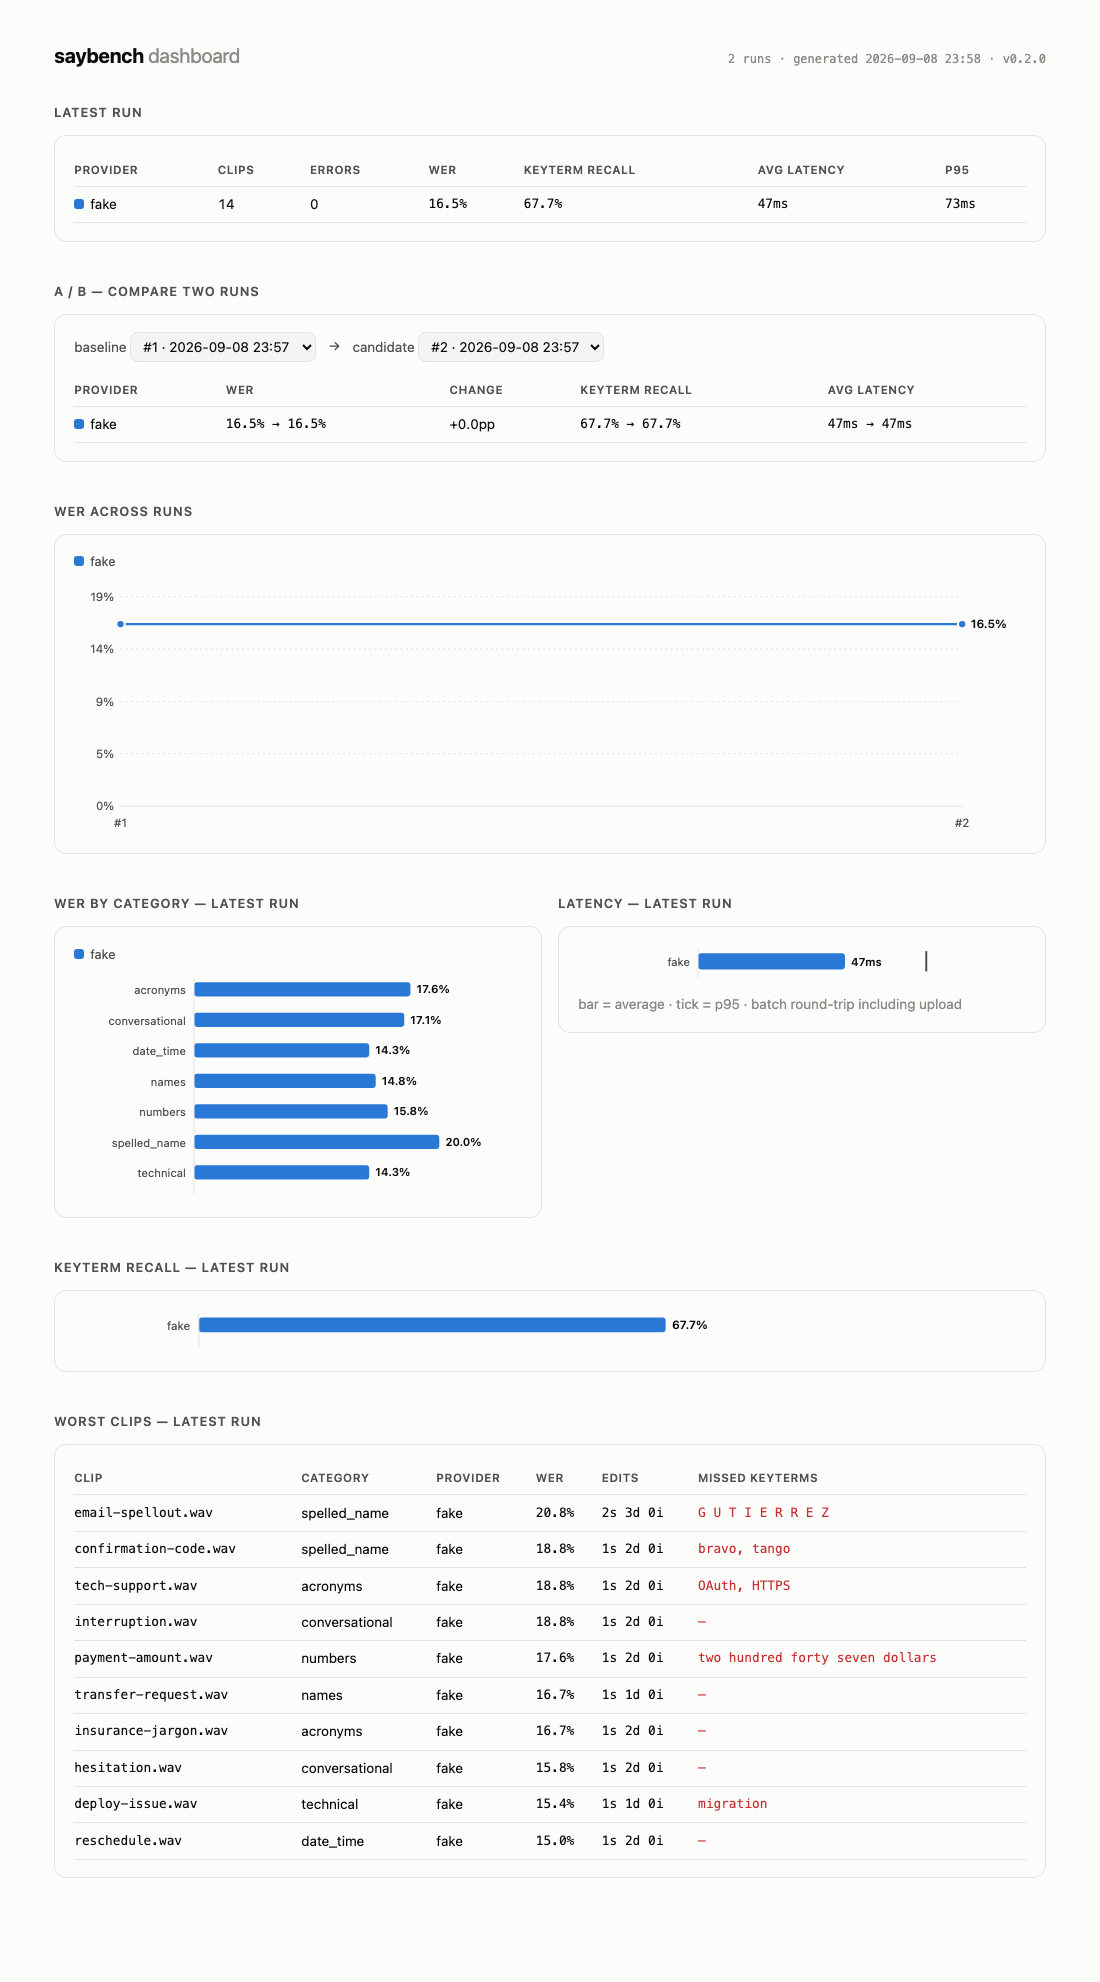
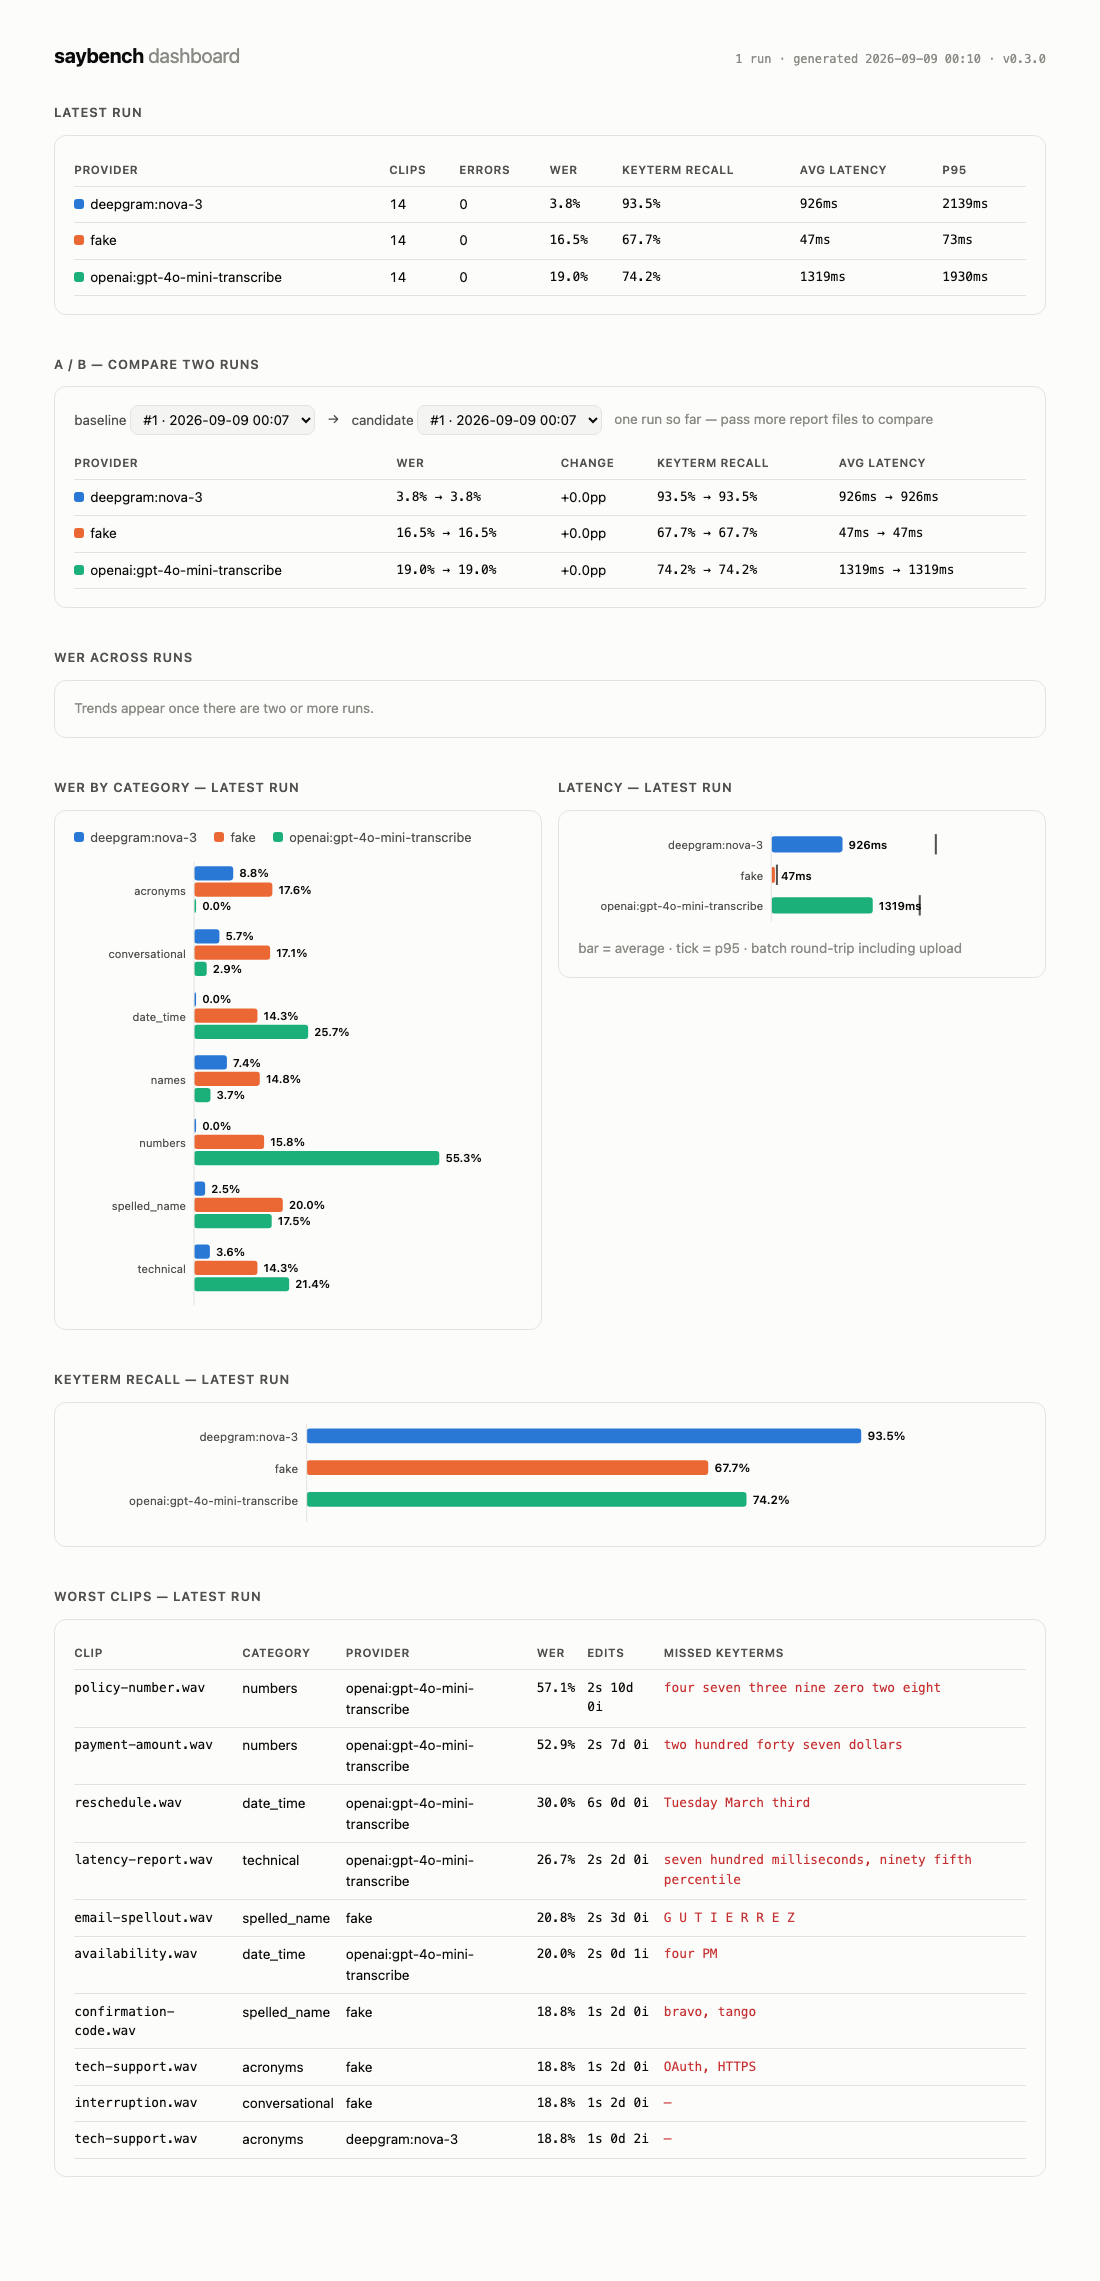
feat: v0.3.0 — first real vendor results, show command, dashboard polish
README now carries a real run of the golden set against live Deepgram
and OpenAI APIs, with the honest reading: per-category ranking inverts
the headline WER, digit-vs-spelled formatting inflates literal WER both
ways (the roadmap's normalization item, demonstrated), and keyterm
recall catches "Cuba Needs" standing in for Kubernetes.

saybench show re-renders any saved report as the standard tables (or
-format json), so results outlive the terminal scrollback.

Dashboard: wider label gutters so long provider names don't truncate;
docs screenshot regenerated from the real three-provider run.

diff --git a/internal/dashboard/template.html b/internal/dashboard/template.html
@@ -258,9 +258,9 @@ function bindTips(root) {
 }
 
 // ---- grouped horizontal bars: WER by category ----
-function hbars(el, rows, valueOf, fmt, tipOf, maxHint, width) {
+function hbars(el, rows, valueOf, fmt, tipOf, maxHint, width, labelW) {
   // rows: [{label, series:[{provider, value}]}]
-  const W = width || 440, L = 118, R = 52, barH = 14, gap = 2, groupGap = 14;
+  const W = width || 440, L = labelW || 118, R = 52, barH = 14, gap = 2, groupGap = 14;
   const max = Math.max(maxHint || 0, ...rows.flatMap(r => r.series.map(s => valueOf(s) || 0))) * 1.12 || 1;
   let yPos = 8, g = "";
   rows.forEach(r => {
@@ -297,7 +297,7 @@ function hbars(el, rows, valueOf, fmt, tipOf, maxHint, width) {
 {
   const rows = (latest.summaries || []).map(s => ({ label: s.provider, series: [{ provider: s.provider, avg: s.avg_latency_ms, p95: s.p95_latency_ms }] }));
   const el = document.getElementById("lat");
-  const W = 440, L = 118, R = 64, barH = 16;
+  const W = 440, L = 190, R = 64, barH = 16;
   const max = Math.max(...rows.map(r => r.series[0].p95), 1) * 1.15;
   let yPos = 8, g = "";
   rows.forEach(r => {
@@ -325,7 +325,7 @@ function hbars(el, rows, valueOf, fmt, tipOf, maxHint, width) {
     const rows = withKt.map(s => ({ label: s.provider, series: [{ provider: s.provider, v: s.keyterm_recall * 100 }] }));
     hbars(document.getElementById("kt"), rows,
       s => s.v, v => v.toFixed(1) + "%",
-      (r, s) => `<b>${esc(s.provider)}</b><br>keyterm recall ${s.v.toFixed(1)}%`, 100, 900);
+      (r, s) => `<b>${esc(s.provider)}</b><br>keyterm recall ${s.v.toFixed(1)}%`, 100, 900, 220);
   }
 }
 

diff --git a/cmd/saybench/main.go b/cmd/saybench/main.go
@@ -23,7 +23,7 @@ import (
 	"github.com/renan-martini/saybench/internal/runner"
 )
 
-const version = "0.2.0"
+const version = "0.3.0"
 
 func main() {
 	if len(os.Args) < 2 {
@@ -41,6 +41,8 @@ func main() {
 		err = cmdCompare(os.Args[2:])
 	case "html":
 		err = cmdHTML(os.Args[2:])
+	case "show":
+		err = cmdShow(os.Args[2:])
 	case "version":
 		fmt.Println("saybench", version)
 	case "help", "-h", "--help":
@@ -63,6 +65,7 @@ Usage:
   saybench stt     -providers fake,deepgram,openai [-manifest golden/manifest.jsonl] [-report out.json]
   saybench compare old.json new.json [-max-wer-regression 2.0]
   saybench html    -o dashboard.html run1.json run2.json ...
+  saybench show    report.json [-format json]
   saybench version
 
 Providers read API keys from the environment only:
@@ -153,6 +156,29 @@ func printSummary(r report.Report) {
 		fmt.Fprintf(w, "%s\t%s\t%d\t%s\n", c.Provider, c.Category, c.Items, report.FormatPct(c.WER))
 	}
 	w.Flush()
+}
+
+// cmdShow re-renders a saved report as the standard summary tables.
+func cmdShow(args []string) error {
+	fs := flag.NewFlagSet("show", flag.ExitOnError)
+	format := fs.String("format", "table", "stdout format: table or json")
+	if err := fs.Parse(args); err != nil {
+		return err
+	}
+	if fs.NArg() != 1 {
+		return fmt.Errorf("usage: saybench show report.json")
+	}
+	r, err := report.LoadFile(fs.Arg(0))
+	if err != nil {
+		return err
+	}
+	if *format == "json" {
+		enc := json.NewEncoder(os.Stdout)
+		enc.SetIndent("", "  ")
+		return enc.Encode(r)
+	}
+	printSummary(r)
+	return nil
 }
 
 func cmdHTML(args []string) error {

diff --git a/README.md b/README.md
@@ -5,22 +5,46 @@
 Every STT vendor publishes benchmarks showing they're the fastest and most accurate. None of them ran on your audio, your accents, your jargon, or your phone-line quality — and none of them will tell you when an API update quietly makes *your* pipeline worse. saybench does: point it at your providers and your clips, get word-error-rate and latency per provider and per failure mode, and wire the regression gate into CI so a degradation fails the build before your users notice.
 
 ```
-$ saybench stt -providers deepgram,openai -manifest golden/manifest.jsonl -report today.json
+$ saybench stt -providers fake,deepgram,openai -manifest golden/manifest.jsonl -report today.json
 
-PROVIDER  CLIPS  ERRORS  WER    KEYTERM RECALL  AVG LATENCY  P95 LATENCY
-fake      14     0       16.5%  67.7%           47ms         73ms
+PROVIDER                       CLIPS  ERRORS  WER    KEYTERM RECALL  AVG LATENCY  P95 LATENCY
+deepgram:nova-3                14     0       3.8%   93.5%           926ms        2139ms
+fake                           14     0       16.5%  67.7%           47ms         73ms
+openai:gpt-4o-mini-transcribe  14     0       19.0%  74.2%           1319ms       1930ms
 
-PROVIDER  CATEGORY        CLIPS  WER
-fake      acronyms        2      17.6%
-fake      conversational  2      17.1%
-fake      date_time       2      14.3%
-fake      names           2      14.8%
-fake      numbers         2      15.8%
-fake      spelled_name    2      20.0%
-fake      technical       2      14.3%
+PROVIDER                       CATEGORY        CLIPS  WER
+deepgram:nova-3                acronyms        2      8.8%
+deepgram:nova-3                conversational  2      5.7%
+deepgram:nova-3                date_time       2      0.0%
+deepgram:nova-3                names           2      7.4%
+deepgram:nova-3                numbers         2      0.0%
+deepgram:nova-3                spelled_name    2      2.5%
+deepgram:nova-3                technical       2      3.6%
+fake                           acronyms        2      17.6%
+fake                           conversational  2      17.1%
+fake                           date_time       2      14.3%
+fake                           names           2      14.8%
+fake                           numbers         2      15.8%
+fake                           spelled_name    2      20.0%
+fake                           technical       2      14.3%
+openai:gpt-4o-mini-transcribe  acronyms        2      0.0%
+openai:gpt-4o-mini-transcribe  conversational  2      2.9%
+openai:gpt-4o-mini-transcribe  date_time       2      25.7%
+openai:gpt-4o-mini-transcribe  names           2      3.7%
+openai:gpt-4o-mini-transcribe  numbers         2      55.3%
+openai:gpt-4o-mini-transcribe  spelled_name    2      17.5%
+openai:gpt-4o-mini-transcribe  technical       2      21.4%
 ```
 
-*(Output above is a real run of the bundled offline `fake` provider — reproducible on your machine with zero API keys. Vendor tables belong in your reports, not this README.)*
+*(Real output: the bundled golden set against live vendor APIs, September 2026 — plus the offline `fake` provider that runs with zero keys. Your audio will rank them differently; that is the point of the tool.)*
+
+## What one real run teaches
+
+That table hides a better story, which is exactly why saybench reports more than one number:
+
+- **The headline flatters and slanders at the same time.** `gpt-4o-mini-transcribe` scores 19% overall WER — but per category it *beats* nova-3 on acronyms (0.0% vs 8.8%), names, and conversational speech. Its catastrophic categories are numbers (55.3%) and dates (25.7%) — and reading the hypotheses shows why: **it heard the digits perfectly and wrote `4739028` and `$247.63`** while the reference spells the words out. Literal WER counts formatting as error. (Deepgram has the inverse artifact: it spelled out "four hundred one" where the reference said `401`.) Text-normalization options are on the [roadmap](ROADMAP.md) precisely because of this — until then, the per-clip hypotheses in the report let you see the difference between *misheard* and *reformatted*.
+- **Keyterm recall catches what WER buries.** One vendor transcribed the Kubernetes deployment as "the Cuba Needs deployment" — a 15% WER clip, but a 100% useless transcript for a technical support call. Both vendors dropped the name "Priya Raghunathan". That's the metric that decides whether a voice agent can say your customer's name back.
+- **Latency is a real axis:** ~926ms vs ~1319ms average round-trip on identical clips.
 
 ## The dashboard
 
@@ -65,6 +89,10 @@ saybench stt -providers deepgram -manifest my-corpus/manifest.jsonl -report toda
 
 # 4. Catch regressions — in CI, fail if any provider got >2 points worse:
 saybench compare baseline.json today.json -max-wer-regression 2.0
+
+# 5. Revisit any saved report, or render a set of them into a dashboard:
+saybench show today.json
+saybench html -o dashboard.html baseline.json today.json
 ```
 
 ## Providers
